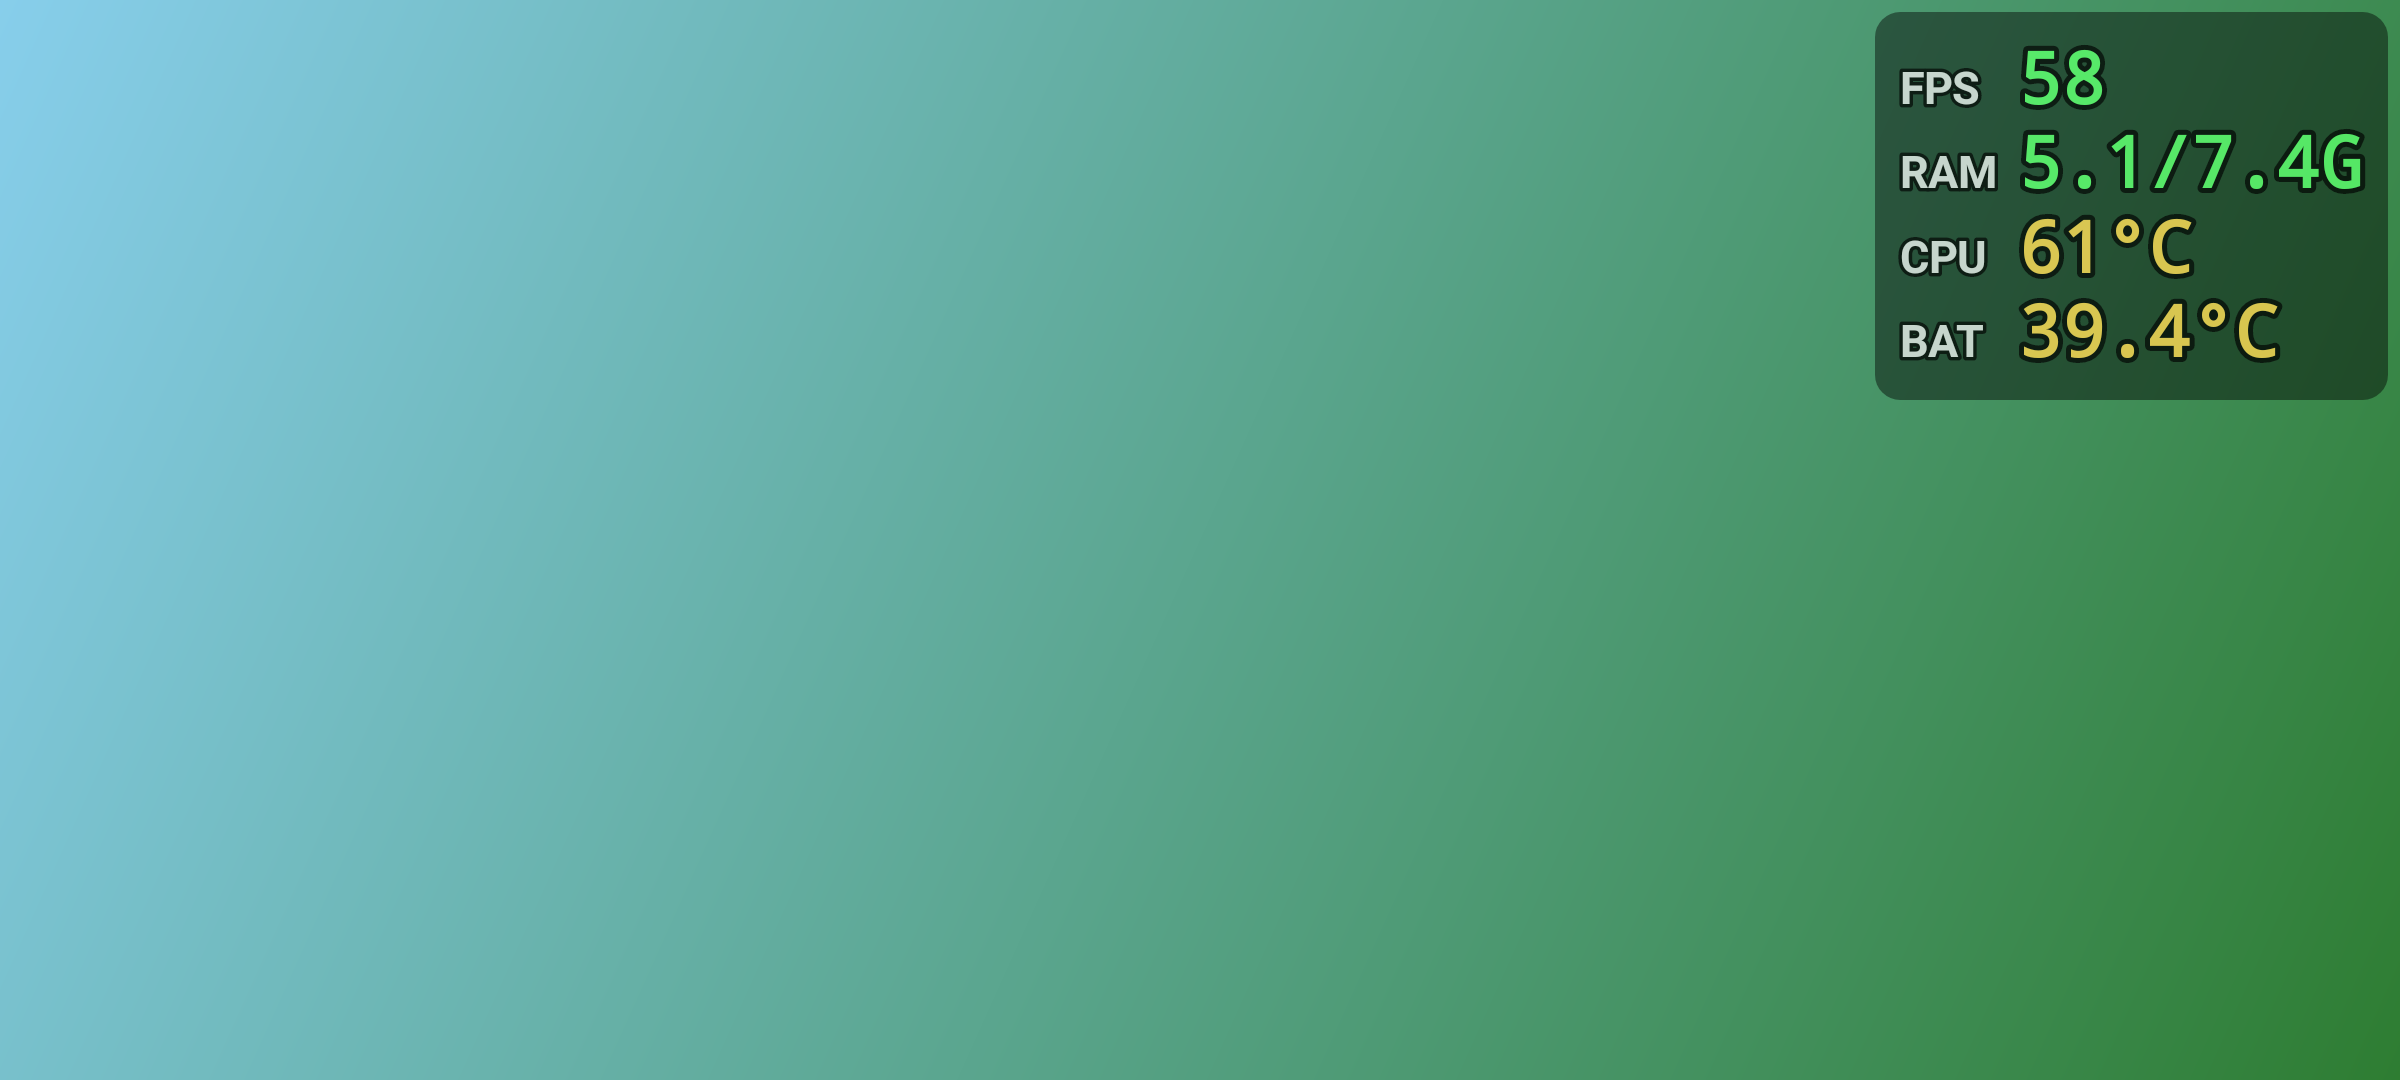
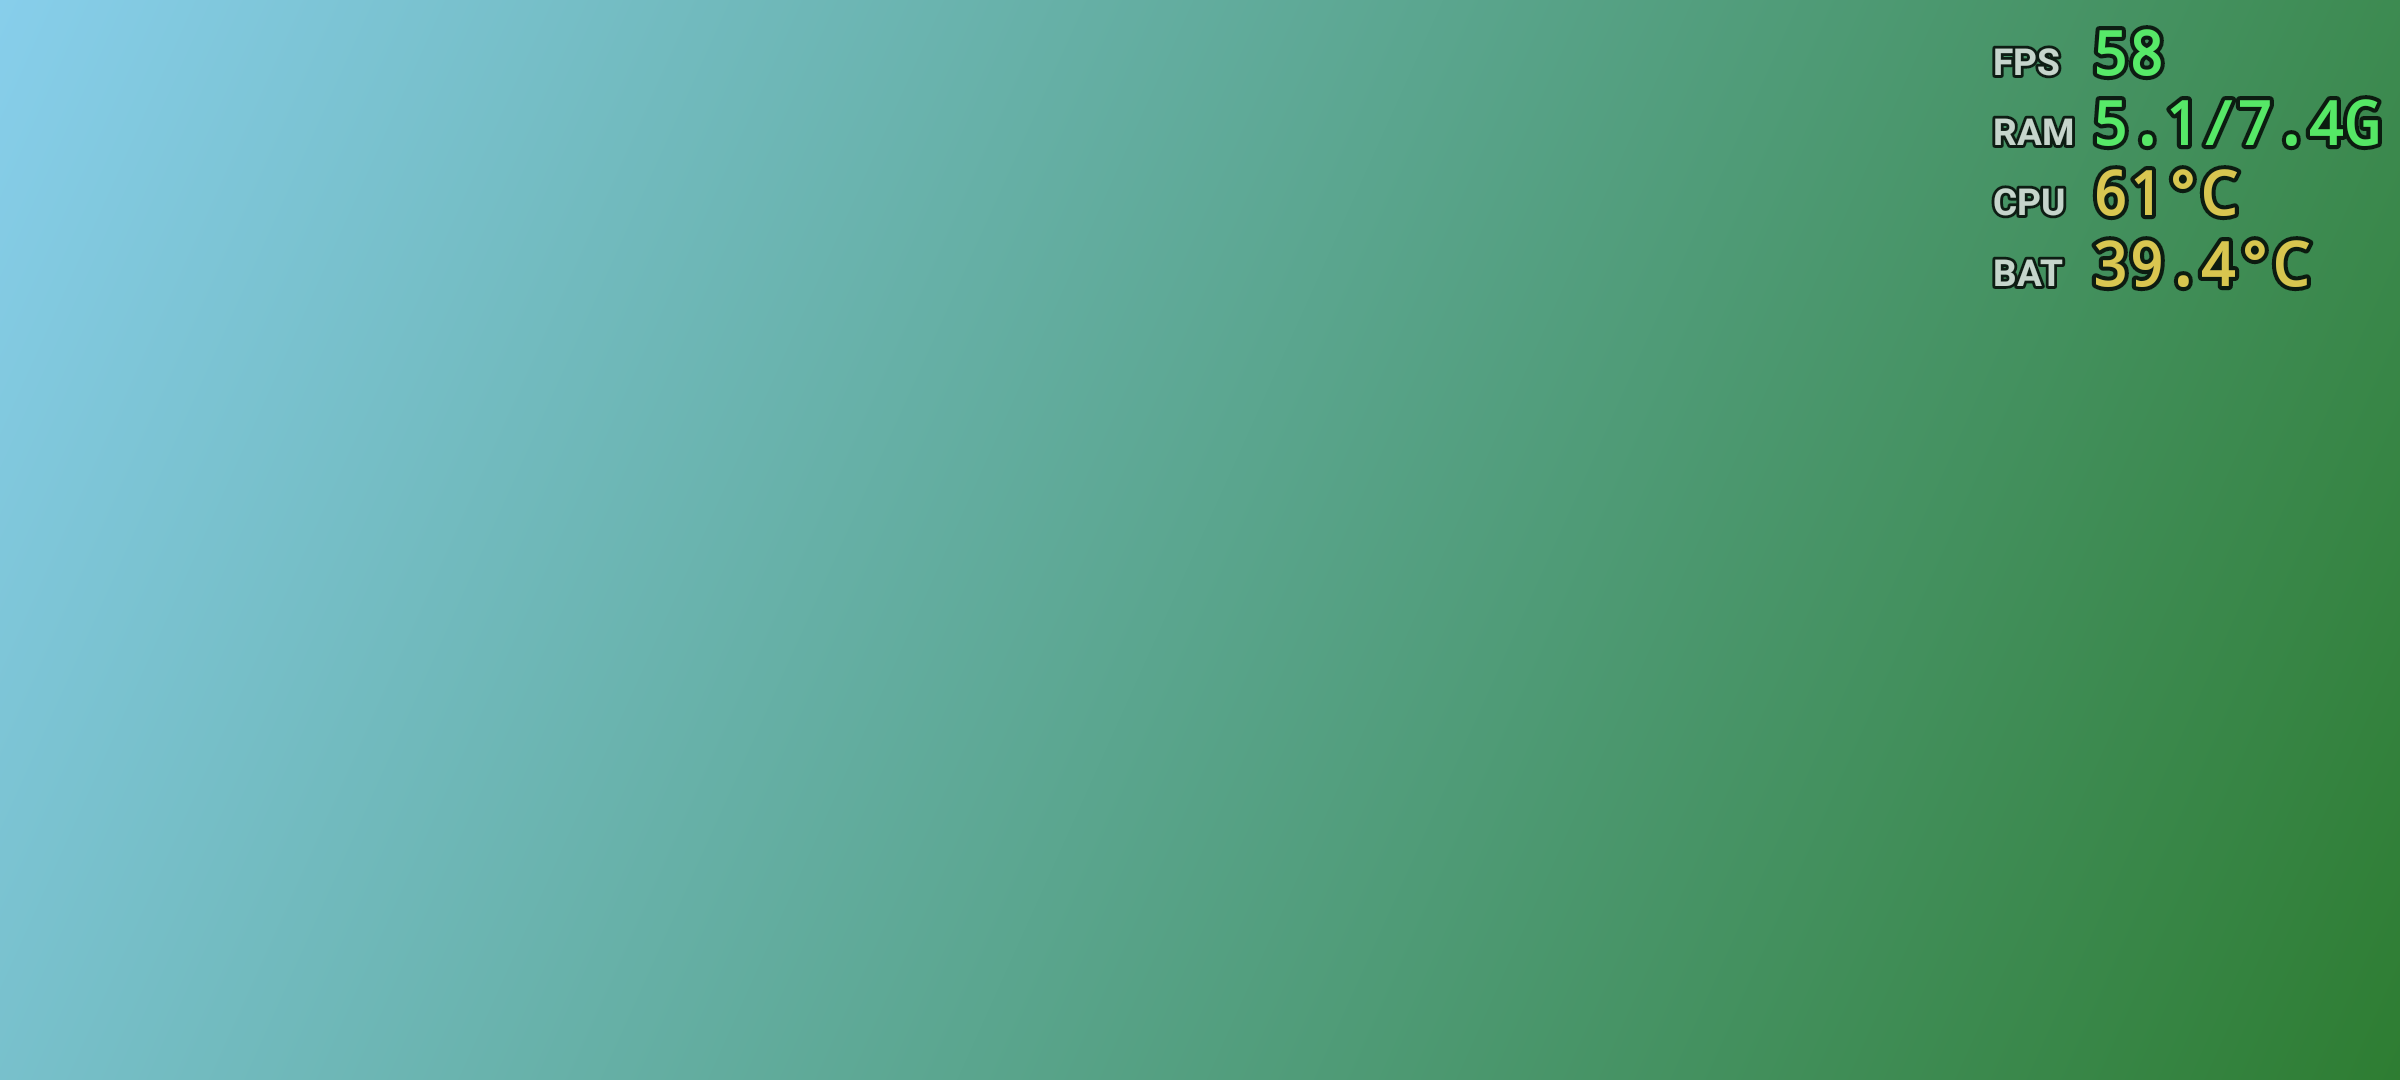
Remove overlay background, shrink default text, make Hz mode zero-cost
- Overlay draws only outlined text (no translucent box); drop the
  background-opacity setting
- Default text size 24sp -> 20sp
- No-capture mode reads Display.getRefreshRate() once per second instead
  of running a Choreographer callback every VSYNC

Claude-Session: https://claude.ai/code/session_015U5Xjsu7ZwrBDm3fUSstQX

Changed region(s): [[0.7812, 0.0, 1.0, 0.3972]]

diff --git a/app/src/main/java/io/github/plpp555/perfoverlay/OverlayView.java b/app/src/main/java/io/github/plpp555/perfoverlay/OverlayView.java
@@ -4,12 +4,11 @@ import android.content.Context;
 import android.graphics.Canvas;
 import android.graphics.Color;
 import android.graphics.Paint;
-import android.graphics.RectF;
 import android.graphics.Typeface;
 import android.util.TypedValue;
 import android.view.View;
 
-/** 右上に出す「ラベル 値」の表。どんな背景でも読めるよう文字に黒フチを付ける。 */
+/** 右上に出す「ラベル 値」の表。背景は描かず、どんな画面でも読めるよう文字に黒フチを付ける。 */
 final class OverlayView extends View {
     static final int MAX_ROWS = 4;
     private static final String[] ALL_LABELS = {"FPS", "Hz", "RAM", "CPU", "BAT"};
@@ -24,12 +23,9 @@ final class OverlayView extends View {
     private final Paint labelStroke = new Paint(Paint.ANTI_ALIAS_FLAG);
     private final Paint valuePaint = new Paint(Paint.ANTI_ALIAS_FLAG);
     private final Paint valueStroke = new Paint(Paint.ANTI_ALIAS_FLAG);
-    private final Paint bgPaint = new Paint(Paint.ANTI_ALIAS_FLAG);
-    private final RectF bgRect = new RectF();
 
     private float padding;
     private float gap;
-    private float corner;
     private float lineHeight;
     private float labelWidth;
     /** 幅が 1 秒ごとに変わって表示が揺れないよう、これまでの最大幅を保持する。 */
@@ -48,10 +44,10 @@ final class OverlayView extends View {
             p.setStrokeJoin(Paint.Join.ROUND);
             p.setColor(Color.BLACK);
         }
-        setStyle(Prefs.DEF_TEXT_SIZE_SP, Prefs.DEF_BG_ALPHA_PCT);
+        setStyle(Prefs.DEF_TEXT_SIZE_SP);
     }
 
-    void setStyle(float textSizeSp, int bgAlphaPct) {
+    void setStyle(float textSizeSp) {
         float px = TypedValue.applyDimension(TypedValue.COMPLEX_UNIT_SP, textSizeSp,
                 getResources().getDisplayMetrics());
         valuePaint.setTextSize(px);
@@ -60,11 +56,10 @@ final class OverlayView extends View {
         labelPaint.setTextSize(px * 0.62f);
         labelStroke.setTextSize(px * 0.62f);
         labelStroke.setStrokeWidth(Math.max(2f, px * 0.10f));
-        bgPaint.setColor(Color.argb(Math.round(bgAlphaPct * 2.55f), 0, 0, 0));
 
-        padding = px * 0.35f;
+        // フチ取りがはみ出さない分だけ余白を取る
+        padding = px * 0.12f;
         gap = px * 0.3f;
-        corner = px * 0.35f;
         Paint.FontMetrics fm = valuePaint.getFontMetrics();
         lineHeight = fm.descent - fm.ascent;
         labelWidth = 0f;
@@ -107,9 +102,6 @@ final class OverlayView extends View {
 
     @Override
     protected void onDraw(Canvas canvas) {
-        bgRect.set(0, 0, getWidth(), getHeight());
-        canvas.drawRoundRect(bgRect, corner, corner, bgPaint);
-
         float ascent = -valuePaint.getFontMetrics().ascent;
         float valueX = padding + labelWidth + gap;
         for (int i = 0; i < rows; i++) {

diff --git a/app/src/main/java/io/github/plpp555/perfoverlay/RefreshRateMeter.java b/app/src/main/java/io/github/plpp555/perfoverlay/RefreshRateMeter.java
@@ -1,0 +1,37 @@
+package io.github.plpp555.perfoverlay;
+
+import android.content.Context;
+import android.hardware.display.DisplayManager;
+import android.view.Display;
+
+/**
+ * キャプチャなしモード: OS が持つ画面のリフレッシュレート（Hz）を 1 秒に 1 回読むだけ。
+ * 非 root では他アプリの描画回数は取れないため FPS の代わりに表示する。
+ * VSYNC ごとの処理をしないので、古い端末でも負荷はほぼゼロ。
+ */
+final class RefreshRateMeter implements FpsMeter {
+    private final Display display;
+
+    RefreshRateMeter(Context context) {
+        DisplayManager dm = (DisplayManager) context.getSystemService(Context.DISPLAY_SERVICE);
+        display = dm.getDisplay(Display.DEFAULT_DISPLAY);
+    }
+
+    @Override
+    public String label() {
+        return "Hz";
+    }
+
+    @Override
+    public void setActive(boolean active) {
+    }
+
+    @Override
+    public float sample() {
+        return display != null ? display.getRefreshRate() : 0f;
+    }
+
+    @Override
+    public void release() {
+    }
+}

diff --git a/app/src/main/java/io/github/plpp555/perfoverlay/OverlayService.java b/app/src/main/java/io/github/plpp555/perfoverlay/OverlayService.java
@@ -261,7 +261,7 @@ public class OverlayService extends Service implements SharedPreferences.OnShare
 
     private void switchToSimple() {
         releaseFpsMeter();
-        fpsMeter = new ChoreographerFpsMeter();
+        fpsMeter = new RefreshRateMeter(this);
         fpsMeter.setActive(screenOn);
         sMode = MODE_SIMPLE;
     }
@@ -321,8 +321,7 @@ public class OverlayService extends Service implements SharedPreferences.OnShare
     }
 
     private void applyStyle() {
-        overlay.setStyle(prefs.getInt(Prefs.KEY_TEXT_SIZE_SP, Prefs.DEF_TEXT_SIZE_SP),
-                prefs.getInt(Prefs.KEY_BG_ALPHA_PCT, Prefs.DEF_BG_ALPHA_PCT));
+        overlay.setStyle(prefs.getInt(Prefs.KEY_TEXT_SIZE_SP, Prefs.DEF_TEXT_SIZE_SP));
     }
 
     private void applyPosition() {

diff --git a/app/src/main/java/io/github/plpp555/perfoverlay/MainActivity.java b/app/src/main/java/io/github/plpp555/perfoverlay/MainActivity.java
@@ -88,8 +88,6 @@ public class MainActivity extends Activity {
 
         bindSeekBar(R.id.seek_text_size, R.id.label_text_size, R.string.text_size, Prefs.KEY_TEXT_SIZE_SP,
                 Prefs.MIN_TEXT_SIZE_SP, Prefs.MAX_TEXT_SIZE_SP, Prefs.DEF_TEXT_SIZE_SP);
-        bindSeekBar(R.id.seek_bg_alpha, R.id.label_bg_alpha, R.string.bg_alpha, Prefs.KEY_BG_ALPHA_PCT,
-                0, 100, Prefs.DEF_BG_ALPHA_PCT);
         bindSeekBar(R.id.seek_offset_x, R.id.label_offset_x, R.string.offset_x, Prefs.KEY_OFFSET_X_DP,
                 0, Prefs.MAX_OFFSET_DP, Prefs.DEF_OFFSET_X_DP);
         bindSeekBar(R.id.seek_offset_y, R.id.label_offset_y, R.string.offset_y, Prefs.KEY_OFFSET_Y_DP,

diff --git a/app/src/main/java/io/github/plpp555/perfoverlay/Prefs.java b/app/src/main/java/io/github/plpp555/perfoverlay/Prefs.java
@@ -6,13 +6,11 @@ import android.content.SharedPreferences;
 /** 設定値（MainActivity で編集し、OverlayService が変更を監視する）。 */
 final class Prefs {
     static final String KEY_TEXT_SIZE_SP = "text_size_sp";
-    static final String KEY_BG_ALPHA_PCT = "bg_alpha_pct";
     static final String KEY_OFFSET_X_DP = "offset_x_dp";
     static final String KEY_OFFSET_Y_DP = "offset_y_dp";
     static final String KEY_AUTOSTART = "autostart";
 
-    static final int DEF_TEXT_SIZE_SP = 24;
-    static final int DEF_BG_ALPHA_PCT = 55;
+    static final int DEF_TEXT_SIZE_SP = 20;
     static final int DEF_OFFSET_X_DP = 4;
     static final int DEF_OFFSET_Y_DP = 4;
 
